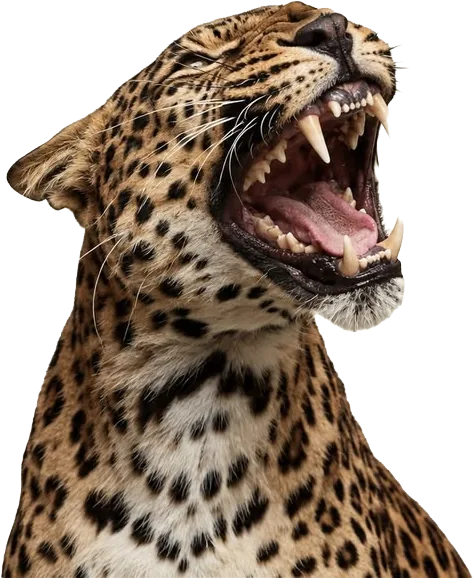
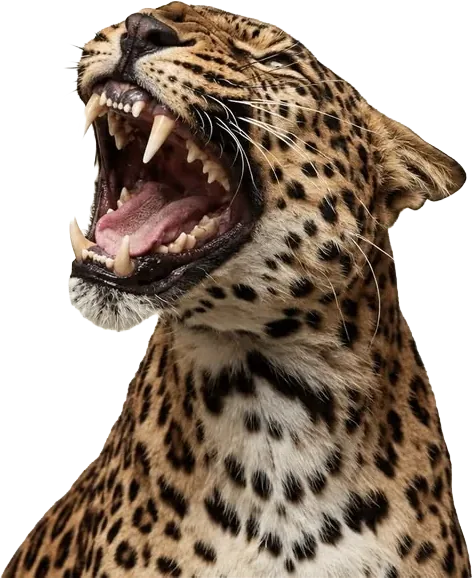
cracked: trail - leopard flipped and placed opposite the shark; rose and wine apart

diff --git a/cracked/index.html b/cracked/index.html
@@ -599,7 +599,7 @@ footer a { text-decoration: none; }
 (function(){
   var hero=document.querySelector('.hero'), box=document.querySelector('.hero-trail');
   if(!hero||!box) return;
-  var names=['shark','porsche-964','crown','greek-head','sony-vx1000','senna-helmet','eightball','leopard','boxing-gloves','vitruvian-man','casio-watch','ak-47','envelope-seal','skull','contax-t2','espresso-cup','wine-bottle','rose','chess-queen','glock','kodak-200','kettlebell'];
+  var names=['shark','porsche-964','crown','greek-head','sony-vx1000','senna-helmet','eightball','boxing-gloves','vitruvian-man','casio-watch','ak-47','leopard','envelope-seal','skull','contax-t2','espresso-cup','wine-bottle','chess-queen','rose','glock','kodak-200','kettlebell'];
   var K={'shark':1.3,'greek-head':1.3,'porsche-964':1.2,'espresso-cup':.7,'skull':.7,'eightball':.7,'contax-t2':.7,'ak-47':1.3};
   var imgs=names.map(function(n){ var i=new Image(); if(K[n]) i.style.setProperty('--k',K[n]); i.src='/image/cracked/hero/'+n+'.webp'; i.alt=''; i.decoding='async'; box.appendChild(i); return i; });
   var KEEP=6, idx=0, z=1, shown=[], last=null;
